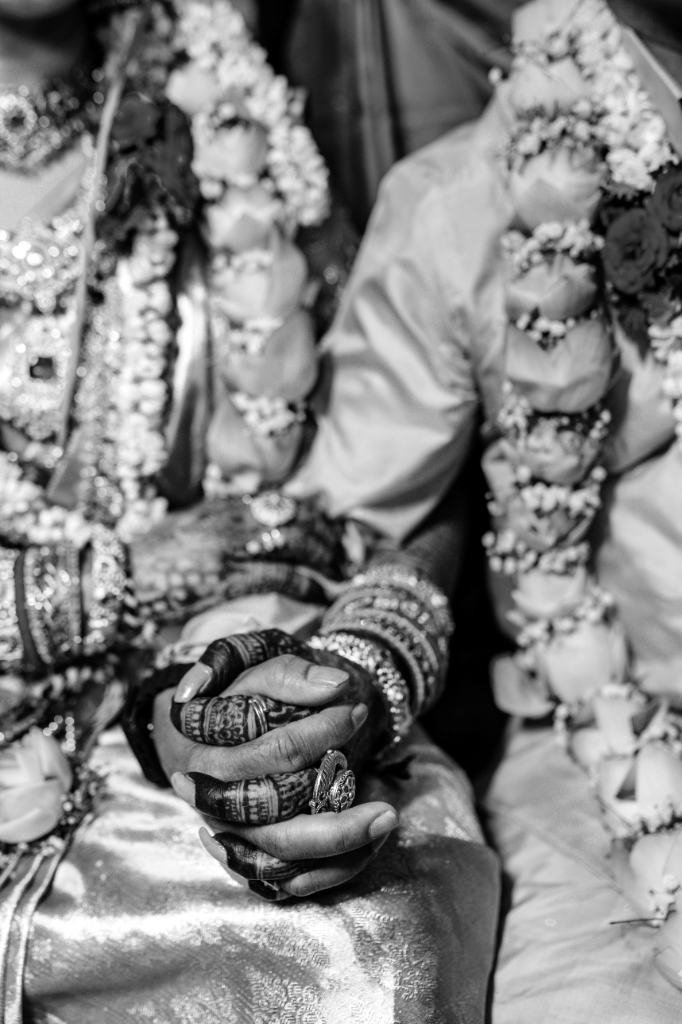
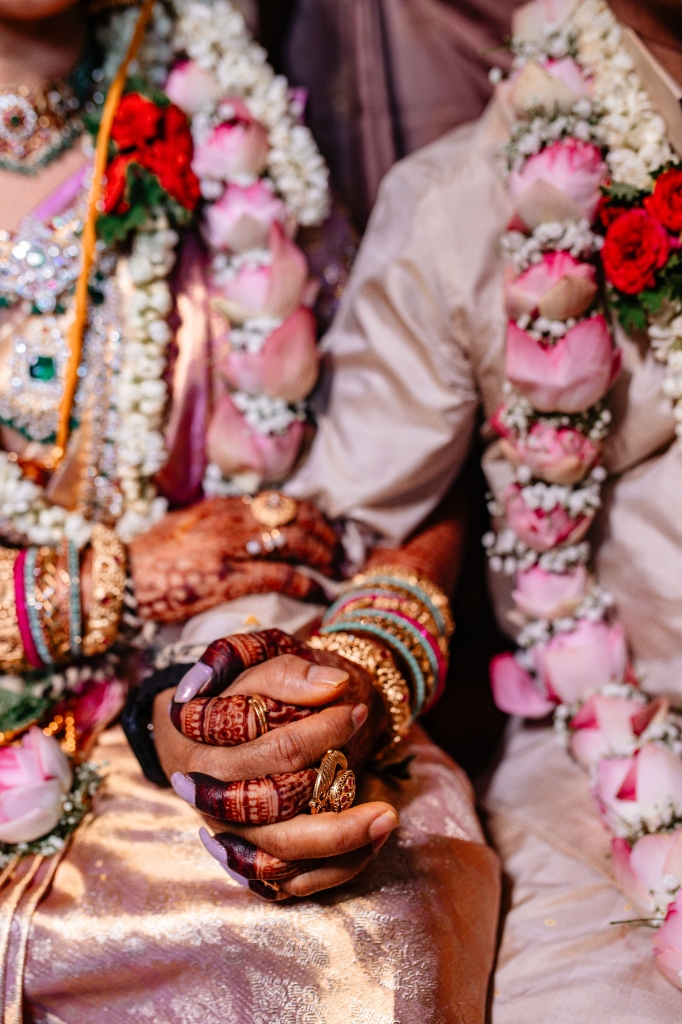
Replace portfolio portraits small photo with floral garlands hands image

diff --git a/portfolio.html b/portfolio.html
@@ -142,7 +142,7 @@
           <figure class="folio-row__small">
             <img
               src="images/portfolio/portraits-small.png"
-              alt="Couple holding hands with garlands and henna"
+              alt="Couple hands with floral garlands and henna"
             />
           </figure>
           <div class="folio-row__meta">
